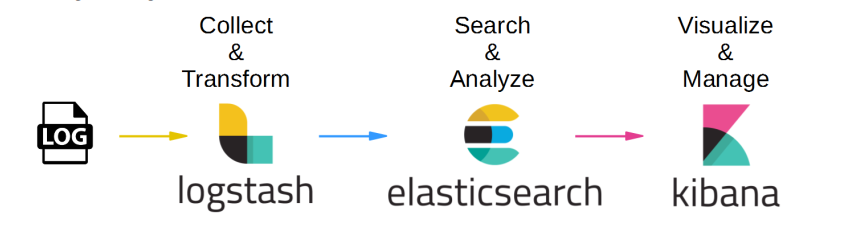
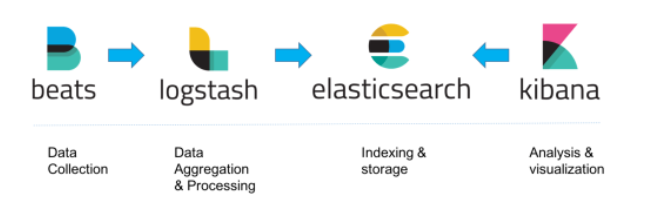
cập nhật tài liệu về overview ELK

diff --git a/ELK-Stack/01-Dosc/00-Overview-ELK.md b/ELK-Stack/01-Dosc/00-Overview-ELK.md
@@ -37,6 +37,7 @@ V. [Vì sao nên sử dụng ELK Stack](#visao)
   - Elasticsearch: Cơ sở dữ liệu lưu trữ và query log
   - Logtash: Tiếp nhận log từ nhiều nguồn sau đó xử lý và ghi log vào Elasticsearch
   - Kibana: Giao diện hỗ trợ quản lý, thống kê log. Hỗ trợ đọc thông tin từ Elasticsearch
+  - Beats: Tập hợp các công cụ dùng để thu thập thông tin chuyên dụng. Có nhiệm vụ thu thập và vận chuyển dữ liệu từ client đến máy chủ ELK
 
 -  ELK có điểm mạnh là khả năng thu thập và hiển thị log theo thời gian thực. Có thể đáp ứng truy vấn đến một lượng dữ liệu cực lớn
 
@@ -58,8 +59,29 @@ V. [Vì sao nên sử dụng ELK Stack](#visao)
 - Khi làm việc với logstash thường sẽ phải làm việc với filter nhiều nhất. Filter sử dụng Grok để thực hiện phân tích dữ liệu 
 
 ### 3.2 Elasticsearch
-
+- ELK là một RESTful distributed search engine. Có thể hiểu là cung cấp khả năng tìm kiếm phân tán qua API. Sủ dụng kiểu lưu trữ dữ liệu noSQL( lưu trữ dữ liệu không cấu trúc)
+- Elasticsearch cho phép tìm kiếm theo nhiều loại hình thức khác nhau: theo cấu trúc, phi cấu trúc, gieo metric theo cách mong muốn
+- Elasticsearch rất nhanh, cho phép truy vấn lượng lớn dữ liệu tức thì với các dữ liệu đã thay đổi 
+- Có thể thiết lập cài đặt vận hành trên hàng petabyte dữ liệu.
+- Vận hành dễ dàng:
+  - Có khả năng co giãn và tính sẵn sàng cao
+  - Dự đoán trước, đáng tin cậy
+  - Đơn giản, trong suôt
+  - Elasticsearch sử dụng chuẩn RESTful APIs và JSON.B
 ## Phần IV. <a name="sudung"></a>Các trường hợp sử dụng ELK Stack
+
+- Đối với các hệ thống ứng dụng nhỏ, không cần dùng đến ELK mà sẽ sử dụng các thư viện ghi logs đi kèm ngôn ngữ rồi thực hiện ghi logs ra files và tiến hành đọc bình thường.
+- Ở trường hợp đối với công ty có các hệ thống lớn với nhiều người dùng, có nhiều dịch vụ hoạt động cùng lúc dẫn đến việc ghi logs ra files không còn hiệu quả nữa. Vì số lượng thiết bị lớn nên không thể truy cập vào từng thiết bị để đọc từng files log mà cập quản lý tập trung để quản lý logs.ELK sẽ hỗ trợ xử lý vấn để đó.
 ## Phần V. <a name="visao"></a>Vì sao nên sử dụng ELK Stack
 
- 
+ - Đọc log từ nhiều nguồn: Logstash có thể đọc được log từ rất nhiều nguồn, từ log file cho đến log database cho đến UDP hay REST request.
+ - Dễ tích hợp: Dù bạn có dùng Nginx hay Apache, dùng MSSQL, MongoDB hay Redis, Logstash đều có thể đọc hiểu và xử lý log của bạn nên việc tích hợp rất dễ dàng.
+ - Hoàn toàn free: Chỉ cần tải về, setup và dùng, không tốn một đồng nào cả. Công ty tạo ra ELK Stack kiếm tiền bằng các dịch vụ cloud hoặc các sản phẩm premium phụ thêm.
+ - Khả năng scale tốt: Logstash và Elasticsearch chạy trên nhiều node nên hệ thống ELK cực kì dễ scale. Khi có thêm service, thêm người dùng, muốn log nhiều hơn, bạn chỉ việc thêm node cho Logstash và Elasticsearch là xong.
+ - Search và filter mạnh mẽ: Elasticsearch cho phép lưu trữ thông tin kiểu NoSQL, hỗ trợ luôn Full-Text Search nên việc query rất dễ dàng và mạnh mẽ.
+ - Cộng đồng mạnh => tutorial nhiều => dễ dàng tiếp cận.
+
+
+## Phần VI. <a name="visao"></a>Tài liệu tham khảo
+- https://itnavi.com.vn/blog/elk-la-gi
+- https://blog.cloud365.vn/logging/ELK-part1-tong-quan-ve-elk-stack/
